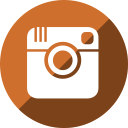
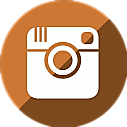
render fix attempt 8?

Changed region(s): [[0.0, 0.0, 1.0, 1.0], [0.5197, 0.5197, 1.0, 1.0], [0.0, 0.0, 0.4724, 0.4724]]

diff --git a/js/exoplanet.js b/js/exoplanet.js
@@ -1,0 +1,157 @@
+// Globals
+let renderer, scene, camera, exoplanet, WIDTH, HEIGHT;
+const ASTEROID_ROTATION_Y = 0.001;
+const ASTEROID_ROTATION_X = 0.001;
+const PLANET_RADIUS = 20;
+const MOONS_COUNT = 30;
+const high = 100;
+const low = 50;
+const min = 50;
+
+// Helpers
+const rndGray = () => {
+  const r = Math.floor(Math.random() * (high - low - 1)) + min + 1;
+  return `hsl(0, 1%, ${r}%)`;
+};
+
+const calcSpeed = (distance, radius, index) => {
+  return Math.sin(distance + 100) / 40;
+};
+
+class Exoplanet {
+  constructor() {
+    this.mesh = new THREE.Object3D();
+    this.createExoplanet();
+    this.createMoons();
+  }
+
+  createMoons() {
+    this.moons = [];
+    const geometry = new THREE.SphereBufferGeometry(1, 4, 4);
+    let material;
+    let mesh;
+    let r;
+    let prevDistance = PLANET_RADIUS * 0.3 + Math.random();
+    for (let i = 0; i < MOONS_COUNT; i++) {
+      r = Math.random() * 10;
+      material = new THREE.MeshStandardMaterial({
+        color: new THREE.Color(rndGray()),
+        roughness: 0.9,
+        shading: THREE.FlatShading
+      });
+      mesh = new THREE.Mesh(geometry, material);
+      mesh.moving = Math.random() * Math.PI;
+      mesh.radius = r;
+      mesh.rotation.x = Math.random() * Math.PI;
+      mesh.rotation.y = Math.random() * Math.PI;
+
+      mesh.d = Math.random() * 2 + Math.random();
+      mesh.distance = mesh.d + prevDistance;
+
+      prevDistance = mesh.distance + Math.random() + mesh.d;
+      mesh.speed = calcSpeed(mesh.distance, mesh.radius, i);
+      mesh.position.y = 0;
+      mesh.position.x = mesh.distance * Math.cos(mesh.moving);
+      mesh.position.z = mesh.distance * Math.sin(mesh.moving);
+      this.moons.push(mesh);
+      this.mesh.add(mesh);
+    }
+  }
+
+  createExoplanet() {
+    this.p = new THREE.SphereGeometry(PLANET_RADIUS, 32, 32);
+    this.material = new THREE.MeshStandardMaterial({
+      color: new THREE.Color(rndGray()),
+      roughness: 0.9,
+      flatShading: true
+    });
+    var noise = 2.8;
+    for (let i = 0; i < this.p.vertices.length; i++) {
+      this.p.vertices[i].x += Math.random() * noise;
+      this.p.vertices[i].y += Math.random() * noise;
+      this.p.vertices[i].z += Math.random() * noise;
+    }
+    this.planet = new THREE.Mesh(this.p, this.material);
+    this.planet.castShadow = true;
+    this.planet.receiveShadow = true;
+    this.mesh.add(this.planet);
+  }
+
+  spin() {
+    let m;
+    for (let index = 0; index < this.moons.length; index++) {
+      m = this.moons[index];
+      m.moving = m.moving + m.speed;
+      m.rotation.x += 0.05;
+      m.rotation.y += 0.05;
+      m.rotation.z += 0.05;
+      m.position.x = m.distance * Math.cos(m.moving);
+      m.position.z = m.distance * Math.sin(m.moving);
+    }
+  }
+};
+
+// Create
+const summon = () => {
+  renderer.render(scene, camera);
+  // Rotate the exoplanet
+  exoplanet.planet.rotation.y -= ASTEROID_ROTATION_Y;
+  exoplanet.planet.rotation.x -= ASTEROID_ROTATION_X;
+  exoplanet.spin();
+  requestAnimationFrame(summon);
+};
+
+const resize = () => {
+  HEIGHT = window.innerHeight;
+  WIDTH = window.innerWidth;
+
+  // Update the renderer and the camera
+  renderer.setSize(WIDTH, HEIGHT);
+  camera.aspect = WIDTH / HEIGHT;
+  camera.updateProjectionMatrix();
+};
+
+// Init
+const init = () => {
+  window.addEventListener('resize', resize, false);
+
+  WIDTH = window.innerWidth;
+  HEIGHT = window.innerHeight;
+  scene = new THREE.Scene();
+  camera = new THREE.PerspectiveCamera(75, WIDTH / HEIGHT, 0.1, 150);
+  camera.position.z = 130;
+
+  renderer = new THREE.WebGLRenderer({
+    alpha: true,
+    antialias: true
+  });
+  renderer.setPixelRatio(window.devicePixelRatio);
+  renderer.setSize(WIDTH, HEIGHT);
+  renderer.setClearColor(0x000000, 1);
+
+  document.body.appendChild(renderer.domElement);
+  const orbit = new THREE.OrbitControls(camera, renderer.domElement);
+
+  // Lights revisit later
+  const lights = [];
+  lights[0] = new THREE.PointLight(0xffffff, 1, 0);
+  lights[1] = new THREE.PointLight(0xffffff, 1, 0);
+  lights[2] = new THREE.PointLight(0xffffff, 1, 0);
+
+  lights[0].position.set(0, 200, 0);
+  lights[1].position.set(100, 200, 100);
+  lights[2].position.set(-100, -200, -100);
+  scene.add(lights[0]);
+  scene.add(lights[1]);
+  scene.add(lights[2]);
+
+  // Exoplanet
+  exoplanet = new Exoplanet();
+
+  scene.add(exoplanet.mesh);
+  renderer.render(scene, camera);
+  summon();
+};
+
+// Big bang
+init();

diff --git a/index.html b/index.html
@@ -198,7 +198,7 @@
         </div>
         <div class="smb round hvrbox">
             <a href="https://www.instagram.com/mallowmarley/">
-                <img src="./img/icons/instagram.svg" class="img-circle hvrbox-layer_bottom">
+                <img src="./img/pics/instagram.png" class="img-circle hvrbox-layer_bottom">
             </a>
         </div>
     </div>

diff --git a/skills.html b/skills.html
@@ -81,6 +81,7 @@
         </div>
     </div>
 
+    <div id="space"></div>
     <!--FOOTNOTE-->
     <div class="container">
     <footer>
